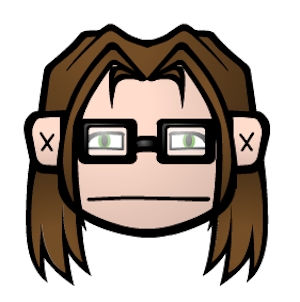
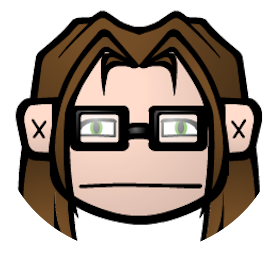
completed images and bios for chelsey and andy

diff --git a/docs/about.html b/docs/about.html
@@ -123,9 +123,9 @@ ul.task-list li input[type="checkbox"] {
 
 </header>
 
-<p>Current Members</p>
-<p><img src="img/andy-avatar.png" class="img-fluid" width="149" alt="andy">{: .img-left} Andrew Zieffler (Co-Director): Andy is a Professor of Teaching in the Quantitative Methods in Education program within the Department of Educational Psychology at the University of Minnesota. His area of scholarship, writ large, is statistics education, with his most recent work focused around teacher education, especially related to the introduction of data science into the statistics curriculum. He is also interested in the assessment of statistics and data science content as well as curriculum development. Beyond the classroom, Andy enjoys petting dogs, noodling on the guitar, reading, watching TV, and cross-stitching.</p>
-<p>Chelsey Legacy (Co-Director): Chelsey is an Assistant Professor of Teaching at UMN in the Quantitative Methods in Education program within Educational Psychology. Her research interests include statistics and data science education generally, and more specifically students experience coding, understanding of data visualizations, curriculum development, and assessment. In her free time, Chelsey enjoys browsing for books at the local library and then going to get ice cream.</p>
+<p>##Current Members</p>
+<p><img src="img/andy-avatar.png" class="img-fluid" style="float: right;" width="150"> Andrew Zieffler (Co-Director): Andy is a Professor of Teaching in the Quantitative Methods in Education program within the Department of Educational Psychology at the University of Minnesota. His area of scholarship, writ large, is statistics education, with his most recent work focused around teacher education, especially related to the introduction of data science into the statistics curriculum. He is also interested in the assessment of statistics and data science content as well as curriculum development. Beyond the classroom, Andy enjoys petting dogs, noodling on the guitar, reading, watching TV, and cross-stitching.</p>
+<p><img src="img/LegacyC2019.png" class="img-fluid" style="float: right;" width="150">Chelsey Legacy (Co-Director): Chelsey is an Assistant Professor of Teaching at UMN in the Quantitative Methods in Education program within Educational Psychology. Her research interests include statistics and data science education generally, and more specifically students experience coding, understanding of data visualizations, curriculum development, and assessment. In her free time, Chelsey enjoys browsing for books at the local library and then going to get ice cream.</p>
 <p>Regina Lisinker:</p>
 <p>Pablo Vivas Corrales:</p>
 
